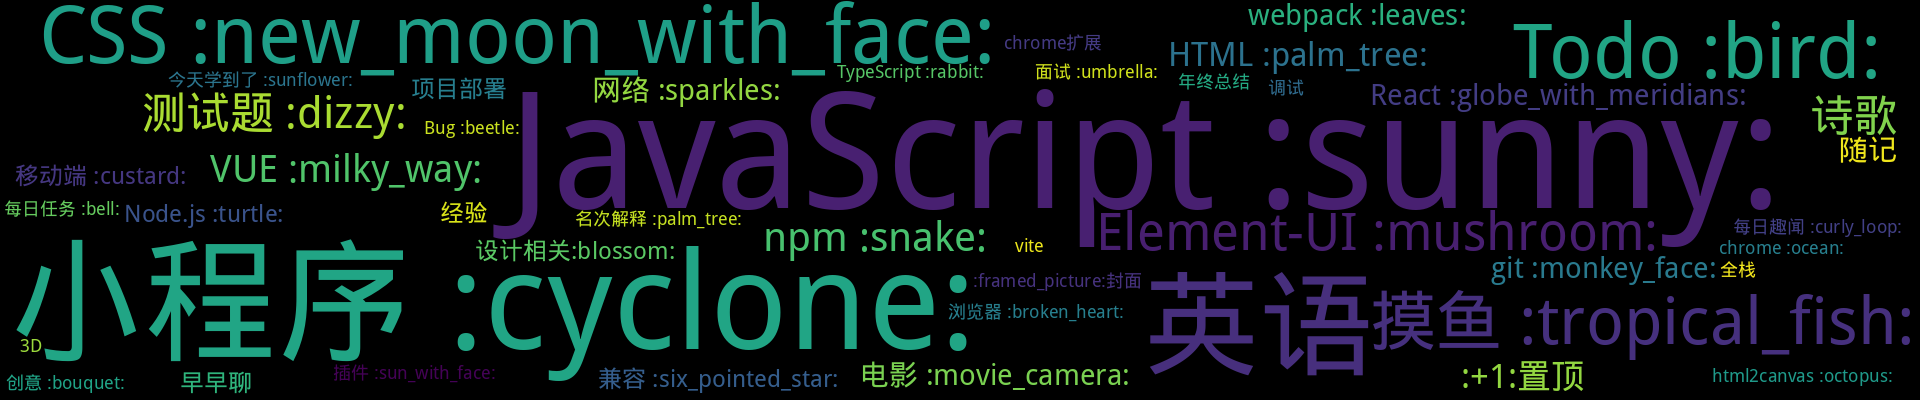
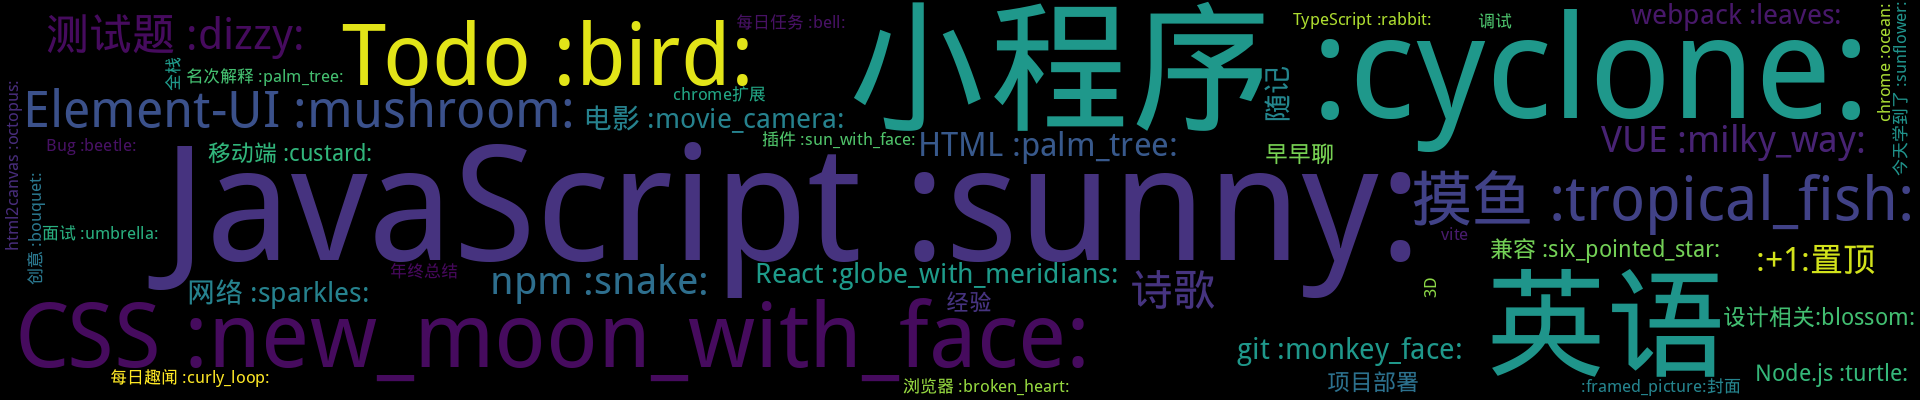
Update from Github Action

diff --git a/README.md b/README.md
@@ -3,7 +3,7 @@
 <p align='center'>
     <img src="https://badgen.net/badge/labels/48"/>
     <img src="https://badgen.net/github/issues/smileyby/ghiblog"/>
-    <img src="https://badgen.net/badge/last-commit/2022-02-15 09:57:53"/>
+    <img src="https://badgen.net/badge/last-commit/2022-02-16 08:21:22"/>
     <img src="https://badgen.net/github/forks/smileyby/ghiblog"/>
     <img src="https://badgen.net/github/stars/smileyby/ghiblog"/>
     <img src="https://badgen.net/github/watchers/smileyby/ghiblog"/>
@@ -38,6 +38,17 @@
 - [你想住在中国哪里？（转自阮一峰周刊第180期）](https://github.com/smileyby/notes/issues/167)  <sup>0 :speech_balloon:</sup>  	 
 - [掘金小册：小程序底层框架实现原理-笔记](https://github.com/smileyby/notes/issues/165)  <sup>0 :speech_balloon:</sup>  	 
 ## 最新 :new: 
+
+#### [小程序：软键盘遮挡输入框问题](https://github.com/smileyby/notes/issues/219) <sup>0 :speech_balloon:</sup> 	 2022-02-16 08:20:55
+
+:label: : [小程序 :cyclone:](https://github.com/smileyby/ghiblog/labels/%E5%B0%8F%E7%A8%8B%E5%BA%8F%20%3Acyclone%3A)
+
+
+
+[更多>>>](https://github.com/smileyby/notes/issues/219)
+
+---
+
 
 #### [小程序：自定义导航在页面有输入框时，会在输入框获取焦点是被顶上去](https://github.com/smileyby/notes/issues/218) <sup>0 :speech_balloon:</sup> 	 2022-02-15 09:57:22
 
@@ -81,18 +92,6 @@
 参考gy代码
 
 [更多>>>](https://github.com/smileyby/notes/issues/215)
-
----
-
-
-#### [可以用在控制台的图形生成插件](https://github.com/smileyby/notes/issues/214) <sup>0 :speech_balloon:</sup> 	 2022-01-21 08:00:27
-
-:label: : [摸鱼 :tropical_fish:](https://github.com/smileyby/ghiblog/labels/%E6%91%B8%E9%B1%BC%20%3Atropical_fish%3A)
-
-https://www.npmjs.com/package/figlet
-https://www.npmjs.com/package/cowsay
-
-[更多>>>](https://github.com/smileyby/notes/issues/214)
 
 ---
 
@@ -402,8 +401,9 @@ https://www.npmjs.com/package/cowsay
 </details>
 
 <details>
-<summary>小程序 :cyclone:	<sup>27:newspaper:</sup></summary>
+<summary>小程序 :cyclone:	<sup>28:newspaper:</sup></summary>
 
+- [小程序：软键盘遮挡输入框问题](https://github.com/smileyby/notes/issues/219)  <sup>0 :speech_balloon:</sup>  	 
 - [小程序：自定义导航在页面有输入框时，会在输入框获取焦点是被顶上去](https://github.com/smileyby/notes/issues/218)  <sup>0 :speech_balloon:</sup>  	 
 - [page-meta 可设置小程序页面属性](https://github.com/smileyby/notes/issues/192)  <sup>0 :speech_balloon:</sup>  	 
 - [掘金小册：小程序底层框架实现原理-笔记](https://github.com/smileyby/notes/issues/165)  <sup>0 :speech_balloon:</sup>  	 
